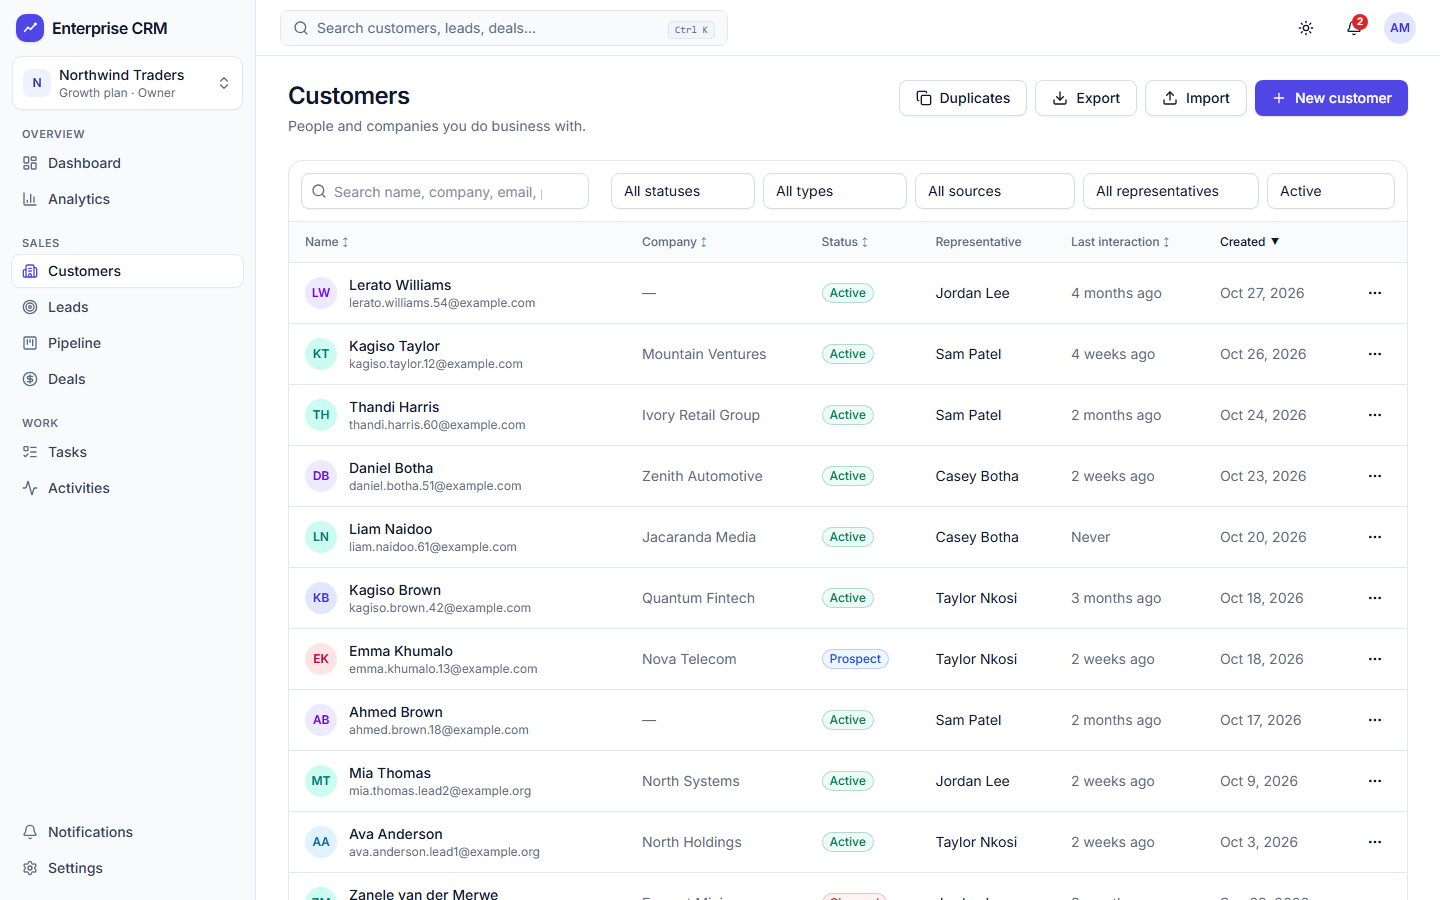
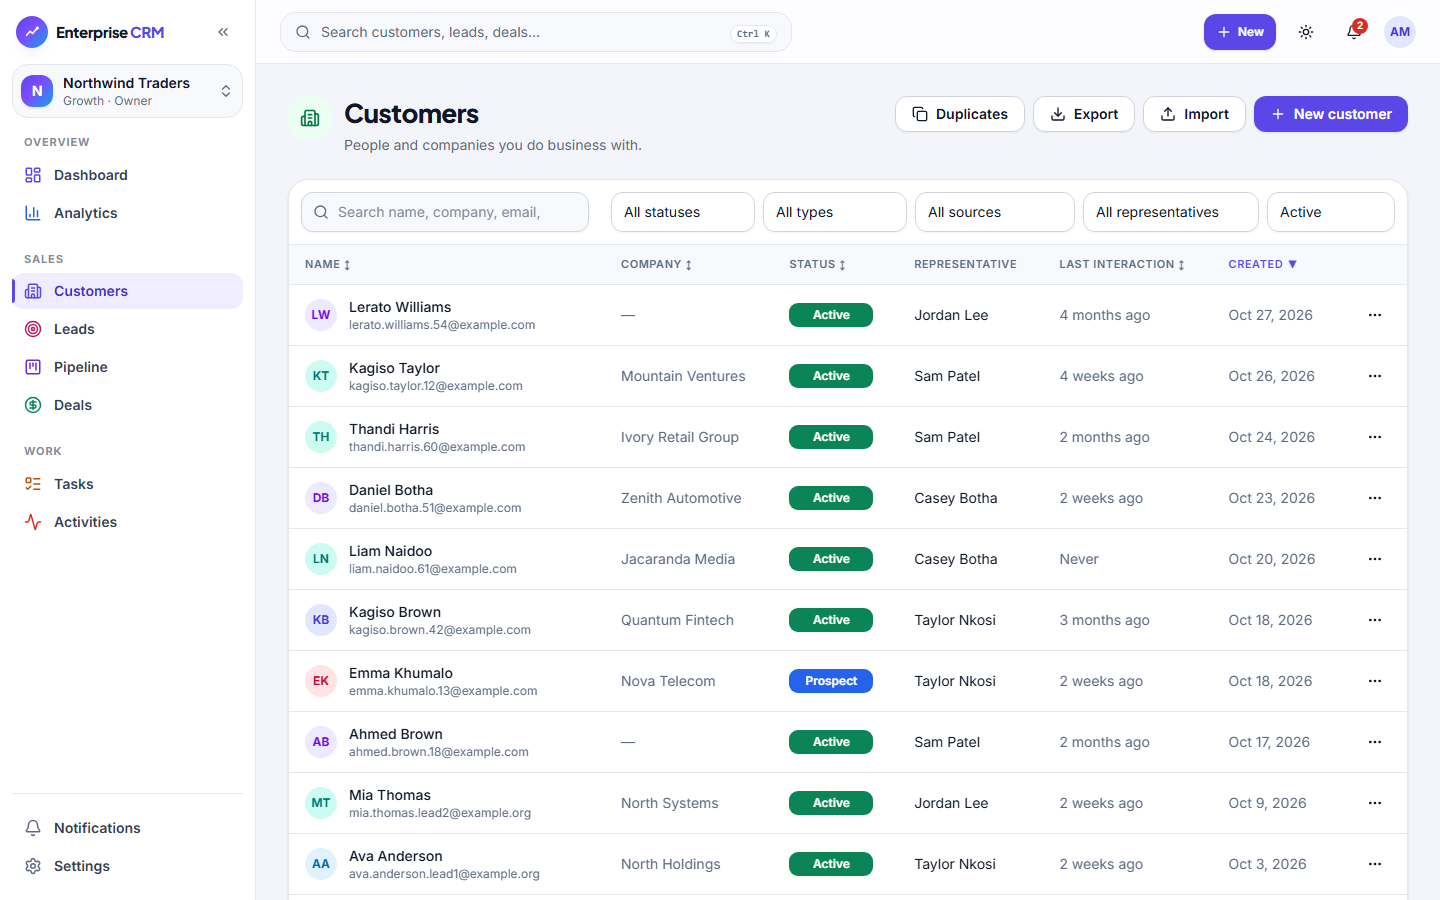
docs: document the design system and refresh screenshots

diff --git a/docs/design-system.md b/docs/design-system.md
@@ -1,0 +1,47 @@
+# Design system
+
+The interface uses an original visual identity. Monday.com's CRM was studied as a reference for polish and usability (colour-coded statuses, board columns with colour accents, a stage tracker, generous spacing). No branding, assets or layouts were copied.
+
+## Sources
+
+- **[claudedesignskills](https://github.com/freshtechbro/claudedesignskills)** (MIT). This is a Claude Code skills marketplace, not an npm UI kit. Following its "individual skills for local projects" install route, the three skills relevant to a CRM UI are installed in `.claude/skills/`:
+  - `modern-web-design`: design tokens, elevation scale, micro-interaction timing, accessibility and performance rules
+  - `motion-framer`: Motion for React patterns (variants, stagger, springs, `layoutId`, reduced motion)
+  - `animated-component-libraries`: Magic UI / React Bits component patterns (for example the number ticker)
+
+  The other 19 skills (Three.js, Babylon.js, GSAP scroll effects, Lottie, Rive, and similar) target 3D and marketing sites and were deliberately not installed. The skills' Python helper scripts are not run as part of the build.
+- **`motion` 12.43.0** (MIT): the animation library the skills recommend, imported from `motion/react`.
+
+## Tokens (`apps/web/src/app/globals.css`)
+
+| Token group | Values |
+| --- | --- |
+| Layers | `canvas` (app background) < `card`/`background` (surfaces) < `popover` (overlays) |
+| Brand | `primary` #5b47e8 (dark mode #7564f5), `--brand-gradient` violet to sky, `--hero-gradient` soft tint |
+| Status fills | green, amber, red, blue, violet, slate, teal, pink. White text on every fill meets 4.5:1 |
+| Soft tones | success, warning, danger and info tints for badges and banners |
+| Elevation | `shadow-xs`, `sm`, `md`, `lg`, `xl` (separate dark-mode values) |
+| Radius | base 12px; cards and dialogs 16px (`rounded-2xl`); controls 12px (`rounded-lg`) |
+| Type | Inter (UI text), Plus Jakarta Sans (headings and figures) |
+| Motion | `--ease-out` cubic-bezier(0.22, 1, 0.36, 1); 150-260 ms; keyframes for fade, dialog, sheet, drawer, pop and shimmer |
+| Charts | the dataviz-validated categorical palette (unchanged) |
+
+## Components
+
+- **Buttons:** default, soft, secondary, outline, ghost, destructive and link variants; press-scale feedback; coloured focus ring.
+- **Inputs:** 40px controls, hover border, soft focus halo, error state wired to `aria-invalid`.
+- **StatusPill:** solid colour-coded status cells. Blue means new or open, violet in conversation, amber in progress, green a positive outcome, red a negative outcome, slate inactive.
+- **PriorityBadge:** a signal-bar glyph plus text, so priority never relies on colour alone.
+- **IconTile:** tinted icon containers used in page headers, KPI cards and feature lists.
+- **Card:** an `interactive` variant lifts on hover. Skeletons use a shimmer.
+- **Overlays:** dialogs zoom and fade in, sheets slide in, menus pop in; all are Radix-based and keyboard accessible.
+- **Motion:** `FadeIn`, `Stagger`/`StaggerItem` and `NumberTicker` live in `components/motion.tsx`. `MotionConfig reducedMotion="user"` disables movement for users who prefer reduced motion. Screen readers always get the final values.
+
+## Patterns
+
+- **App shell:** collapsible sidebar (state remembered per browser) with colour-coded section icons and a spring-animated active indicator; a translucent sticky top bar with search, a "New" quick-create menu, theme switch, notifications and account menu; page content fades in on navigation.
+- **Dashboard:** gradient welcome banner with working quick actions and the date-range filter; KPI cards with icon tiles and count-up values (all from the analytics API).
+- **Pipeline:** columns carry a stage-colour top bar and count chip; cards have a stage-colour edge, lift on hover, tilt while dragged; empty columns show a dashed drop zone.
+- **Deals:** the stage tracker is a row of connected chevrons. Click a chevron to move the deal.
+- **Tables:** uppercase micro-headers, sortable columns highlighted in the brand colour, row hover, solid status pills.
+- **Auth:** split layout with a brand-gradient panel and an abstract product preview (shapes only, no invented figures).

diff --git a/README.md b/README.md
@@ -19,11 +19,12 @@ A multi-tenant customer relationship management platform for sales teams: custom
 | Analytics | KPIs, revenue, acquisition, conversion, pipeline, activity and team-performance charts from live SQL, with date ranges |
 | Notifications | In-app centre, read/unread, preferences, email via Mailpit, background reminders (BullMQ) |
 | Plans | Free / Starter / Growth / Enterprise with limits, feature gates and usage dashboard. Billing is simulated - no payment is ever collected |
+| Design | Original design system: layered canvas/surfaces, colour-coded status pills, collapsible sidebar, quick-create menu, animated Kanban, chevron stage tracker, light and dark themes, reduced-motion support ([details](docs/design-system.md)) |
 | Ops | Swagger/OpenAPI, structured logs (pino), Prometheus metrics, health checks, Docker Compose, GitHub Actions CI |
 
 ## Tech stack
 
-Next.js 15, React 19, TypeScript (strict), Tailwind CSS 4, Radix UI (shadcn-style components), TanStack Query, React Hook Form, Zod, Recharts, dnd-kit, NestJS 11, Prisma 6, PostgreSQL 16, Redis 7, BullMQ, Nodemailer + Mailpit, Jest, Supertest, Vitest, Playwright, pnpm workspaces.
+Next.js 15, React 19, TypeScript (strict), Tailwind CSS 4, Radix UI (shadcn-style components), Motion (animations), TanStack Query, React Hook Form, Zod, Recharts, dnd-kit, NestJS 11, Prisma 6, PostgreSQL 16, Redis 7, BullMQ, Nodemailer + Mailpit, Jest, Supertest, Vitest, Playwright, pnpm workspaces.
 
 ```
 apps/
@@ -88,6 +89,7 @@ See [docs/testing-report.md](docs/testing-report.md) for the latest results.
 ## Documentation
 
 - [Architecture](docs/architecture.md)
+- [Design system](docs/design-system.md)
 - [Database schema](docs/database-schema.md)
 - [API documentation](docs/api-documentation.md)
 - [Security](docs/security.md)
